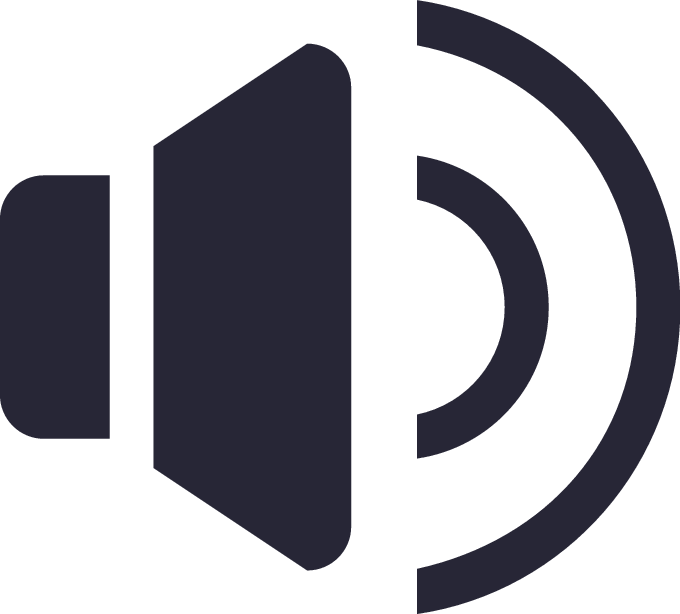
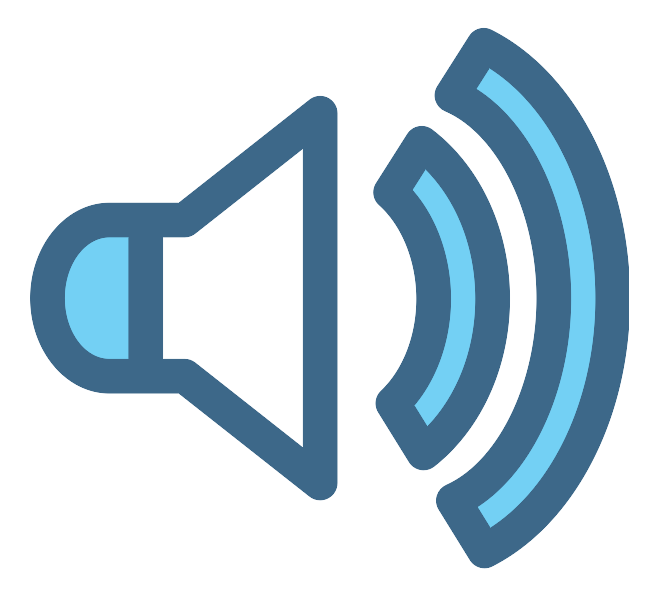
update sound image

diff --git a/assets/styles/index.css b/assets/styles/index.css
@@ -214,13 +214,15 @@ img {
 	right: 50px;
 	bottom: 50px;
 	cursor: pointer;
+	background: url('../images/mute.png');
+	background-size: 100% 100%;
+}
+
+.dv-sound.playing {
+	background: url('../images/sound.png');
+	background-size: 100% 100%;
 }
 
 .dv-sound:hover {
 	border: solid 1px #ccc;
-}
-
-.dv-sound-img {
-	width: 50px;
-	height: 50px;
 }

diff --git a/index.html b/index.html
@@ -101,7 +101,6 @@
 			</div>
 		</div>
 		<div class="dv-sound playing">
-			<img class="dv-sound-img" src="assets/images/sound.png" />
 		</div>
 	</body>
 </html>
